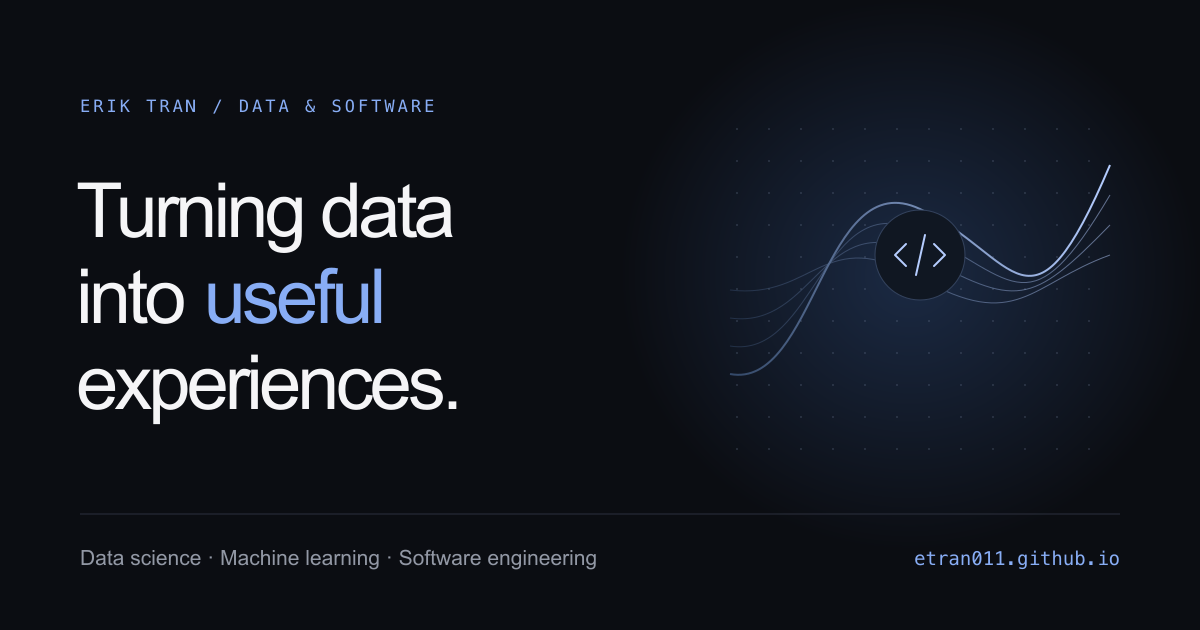
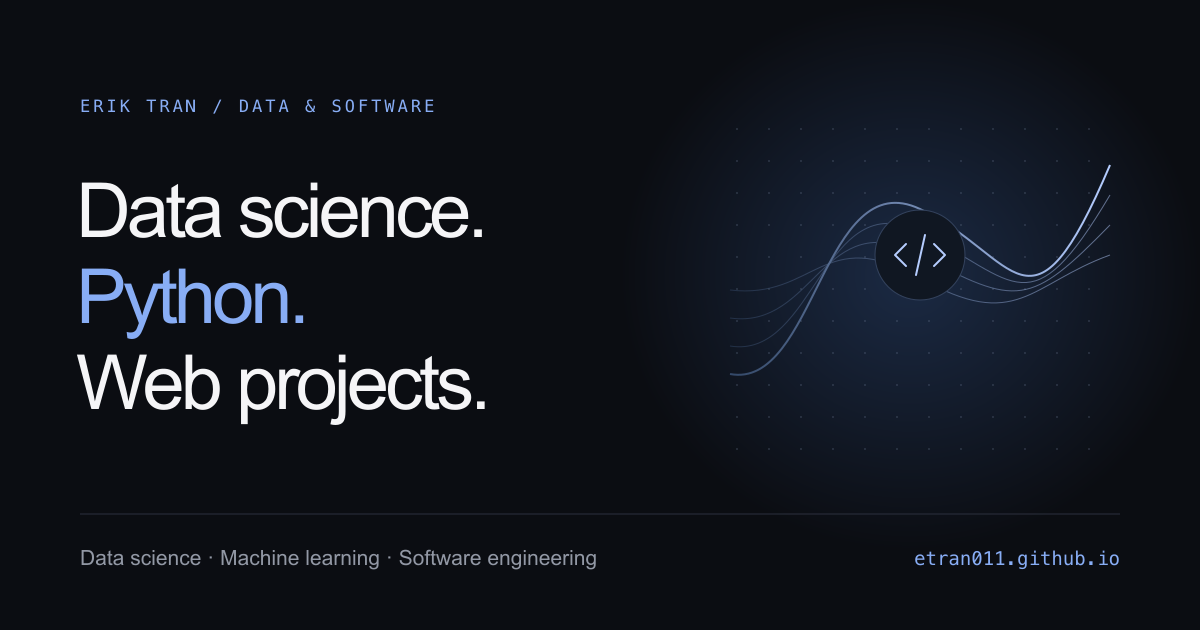
Refine portfolio copy for clarity and accuracy

Changed region(s): [[0.0617, 0.4222, 0.4008, 0.6635], [0.0617, 0.3016, 0.4008, 0.4222]]

diff --git a/src/data/portfolio.ts b/src/data/portfolio.ts
@@ -23,7 +23,7 @@ export const projects = [
     featured: true,
     highlights: ["European calls & puts", "Analytical Greeks", "Implied volatility", "Sensitivity analysis"],
     caseStudy: {
-      overview: "OptionLab brings European option valuation, risk sensitivities, and implied volatility into one focused workspace. I developed the Python pricing backend and directed AI-assisted frontend development, reviewing component behavior, API integration, and visualization design.",
+      overview: "OptionLab calculates European option prices, risk sensitivities, and implied volatility. I developed the Python pricing backend and directed AI-assisted frontend development, reviewing component behavior, API integration, and visualization design.",
       problem: "An option price is only part of the picture. Understanding how the price responds to changes in the underlying asset, volatility, and time requires a way to explore the model’s assumptions and sensitivities together.",
       approach: "A Python/FastAPI backend computes Black–Scholes prices and analytical Greeks. Brent root finding estimates implied volatility from an observed premium. A Next.js interface presents those results alongside one-variable-at-a-time sensitivity charts.",
       architecture: ["Next.js and TypeScript provide the interface and same-origin API proxy.", "FastAPI validates inputs and serves pricing, Greeks, implied-volatility, and sensitivity endpoints.", "Python owns quantitative calculations; Recharts presents sampled results without duplicating the pricing model in the browser."],
@@ -32,7 +32,7 @@ export const projects = [
         { title: "Making financial units explicit", description: "The interface distinguishes per-share values, percentage-point changes, annualized volatility, and daily Theta so the outputs can be interpreted correctly." },
         { title: "Testing model behavior", description: "Pytest checks cover put-call parity, pricing bounds, numerical Greeks, implied-volatility recovery, and API edge cases." },
       ],
-      outcome: "The result is a workspace that connects a valuation to its assumptions and sensitivities. The implementation keeps numerical logic in one backend and makes loading, input validation, and partial request failures visible in the interface.",
+      outcome: "The dashboard and sensitivity charts share the same backend calculations. The interface displays loading states, input errors, and partial request failures so users can tell which results are available.",
     },
     technologies: ["Python", "FastAPI", "Next.js", "TypeScript", "Recharts", "Pytest"],
     screenshots: [

diff --git a/src/data/background.ts b/src/data/background.ts
@@ -103,10 +103,10 @@ export interface About { heading: string; emphasis: string; paragraphs: readonly
 
 // Concise first-person introduction grounded in the supplied résumé and interests.
 export const about = {
-  heading: "Curiosity,",
-  emphasis: "put into practice.",
+  heading: "A little",
+  emphasis: "about me.",
   paragraphs: [
     "I’m Erik, a Data Science student at William & Mary. I enjoy programming, statistics, and the process of turning a question into working software.",
-    "I’m interested in AI, machine learning, software engineering, financial technology, and consulting. I enjoy combining technical skills with analytical problem-solving to understand real-world business challenges and build useful solutions.",
+    "I’m interested in AI, machine learning, software engineering, financial technology, and consulting. I like using code and data analysis to work through business questions, such as what a dataset can tell us and where its limits are.",
   ],
 } as const satisfies About;

diff --git a/src/components/background/education-section.tsx b/src/components/background/education-section.tsx
@@ -36,7 +36,7 @@ export function EducationSection() {
               <div className="education-graduation"><dt>Expected graduation</dt><dd>{education.graduation.replace("Expected ", "")}</dd></div>
               <div className="education-gpa"><dt>Cumulative GPA</dt><dd>{education.gpa.split(" / ")[0]} <span>/ {education.gpa.split(" / ")[1]}</span></dd></div>
             </dl>
-            <p className="education-field eyebrow">Mathematics × Computing × Discovery</p>
+            <p className="education-field eyebrow">Statistics × Computing × Machine learning</p>
           </div>
         </div>
         <details className="education-coursework"><summary><span>Academic foundations</span><span className="education-coursework-hint">Explore coursework <span aria-hidden="true">+</span></span></summary><ul>{education.coursework.map((course, i) => <li key={course}><span aria-hidden="true">{String(i + 1).padStart(2, "0")}</span>{course}</li>)}</ul></details>

diff --git a/src/components/contact/contact-section.tsx b/src/components/contact/contact-section.tsx
@@ -10,7 +10,7 @@ export function ContactSection() {
         <div className="contact-layout">
           <ContentIsland className="contact-intro">
             <p className="eyebrow">Contact / 06</p>
-            <h2 id="contact-heading">Let’s build<br /><span>something useful.</span></h2>
+            <h2 id="contact-heading">Get in touch<br /><span>by email.</span></h2>
             <p>Have a project, a question, or an opportunity in data science, software engineering, or consulting? I’d like to hear from you.</p>
             <a className="contact-email" href={`mailto:${profile.email}`}><Mail size={22} aria-hidden="true" /><span>{profile.email}</span><ArrowUpRight size={22} aria-hidden="true" /></a>
           </ContentIsland>

diff --git a/src/components/projects/project-showcase.tsx b/src/components/projects/project-showcase.tsx
@@ -6,8 +6,8 @@ export function ProjectShowcase() {
   const [leading, ...remaining] = projects;
   const heading = (
     <div className="section-heading project-scene-heading">
-      <div><p className="eyebrow">Selected work / 02</p><h2 id="projects-heading">Ideas, put to work.</h2></div>
-      <p>Exploring financial models and machine learning through software you can understand.</p>
+      <div><p className="eyebrow">Selected work / 02</p><h2 id="projects-heading">Software &amp; data projects.</h2></div>
+      <p>Interactive tools for option pricing and calorie estimation, with documented methods and results.</p>
     </div>
   );
   const introduction = <>{heading}{leading && <ProjectCard project={leading} index={0} />}</>;

diff --git a/src/components/footer.tsx b/src/components/footer.tsx
@@ -8,7 +8,7 @@ export function Footer() {
     <footer className="site-footer">
       <Container>
         <div className="footer-top">
-          <div><p className="footer-name">{profile.name}</p><p className="footer-description">Data, software, and thoughtful experiences.</p></div>
+          <div><p className="footer-name">{profile.name}</p><p className="footer-description">Data Science student at William &amp; Mary.</p></div>
           <nav className="footer-links" aria-label="Footer navigation">
             <Link href="/#contact">Contact</Link>
             {profile.links.map((link) => <a key={link.label} href={link.href}>{link.label}</a>)}

diff --git a/src/components/background/experience-section.tsx b/src/components/background/experience-section.tsx
@@ -9,7 +9,7 @@ export function ExperienceSection() {
       <Container>
         <div className="section-heading">
           <div><p className="eyebrow">Experience / 03</p><h2 id="experience-heading">Working with people.<br />Solving technical problems.</h2></div>
-          <p>From campus support to data analysis, my work connects technical detail with clear communication.</p>
+          <p>Roles in campus IT support, AI response evaluation, and construction data analysis.</p>
         </div>
         <ExperienceTimeline>
           {experience.map((item) => (

diff --git a/src/lib/hero-typing.ts b/src/lib/hero-typing.ts
@@ -1,6 +1,6 @@
-/** Exact wording, order and line breaks from the original scroll-driven hero. */
+/** Approved terminal copy with explicit line breaks; playback is independent of wording. */
 export const heroHeadlinePhrases = [
-  { lines: ["Building intelligent systems,", "one idea at a time."] },
+  { lines: ["Studying data science.", "Writing Python."] },
   { lines: ["Exploring AI &", "machine learning."] },
 ] as const;
 export const heroHeadlineText = heroHeadlinePhrases.map(phrase => phrase.lines.join(" ")).join(" ");

diff --git a/src/lib/site-metadata.ts b/src/lib/site-metadata.ts
@@ -7,7 +7,7 @@ export const site = {
 };
 
 export function pageMetadata({ title, description, path }: { title: string; description: string; path: string }): Metadata {
-  const image = { url: "/social-card.png", width: 1200, height: 630, alt: "Erik Tran — turning data into useful experiences. Data science and software engineering." };
+  const image = { url: "/social-card.png", width: 1200, height: 630, alt: "Erik Tran — Data science, Python, and web projects." };
   return {
     title,
     description,

diff --git a/docs/content-audit.md b/docs/content-audit.md
@@ -45,3 +45,7 @@ Source: https://github.com/etran011/platepredict at `5f1f23760264d3f8eeacd8e0a23
 - Model export contains 54 terms plus intercept. The browser parity fixture covers 145 test records and 31 boundary cases. Review threshold is 56 kcal, an empirical heuristic, not independently validated detection.
 - Limitations retained: repeated profiles across random splits, unknown unseen-restaurant performance, unverified upstream dataset provenance/license, and no health-score or percentage-accuracy claim.
 - Three supplied screenshots (2940 × 1668 each) show the updated landing page, the blank nutrition-entry form and model explanation, and pre-cleaning exploratory charts. Original PNGs are preserved; lossless WebP copies are used in the existing card/detail gallery. The form image does not show a completed estimate; the charts are not model evaluation results. The previous landing asset is retained but no longer displayed.
+
+## Portfolio copy review — October 20, 2026
+
+Reviewed hero, About, project cards/case studies, experience, education, tools, contact, footer, and social metadata. Replaced vague slogans with direct labels or concrete descriptions; retained résumé-backed achievements and the consulting interest. The first terminal phrase now reads “Studying data science. Writing Python.”; the AI/ML phrase and playback logic are unchanged. Removed decorative periods after Erik’s name in hero/footer and their unused color rules. Social-card source, raster output, and alt text now agree. No new professional claims or tools were added.
